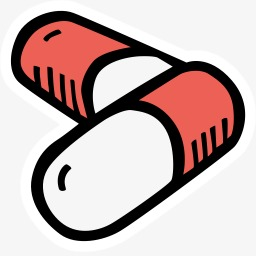
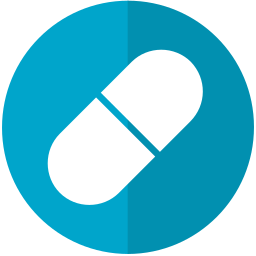
Modification de l'icone.

diff --git a/README.md b/README.md
@@ -1,5 +1,8 @@
 # Médocs [![Launchpad.net !](http://media.launchpad.net/lp-badge-kit/launchpad-badge-w120px.png)](https://launchpad.net/medocs)
 [![Licence](https://img.shields.io/github/license/drx-tn/medocs.svg)](LICENSE) [![Etat du build sur Travis](https://travis-ci.org/drx-tn/medocs.svg?branch=master)](https://travis-ci.org/drx-tn/medocs) [![Etat du build sur Appveyor](https://ci.appveyor.com/api/projects/status/usg9qx1bejcilxce/branch/master?svg=true)](https://ci.appveyor.com/project/drxtun61291/medocs/branch/master) [![Dernière version](https://img.shields.io/github/release/drx-tn/medocs.svg)](https://github.com/drx-tn/medocs/releases/latest) [![Nombre de téléchargements](https://img.shields.io/github/downloads/drx-tn/medocs/total.svg)](https://github.com/drx-tn/medocs/releases)
+
+<p align="center"><img src="medocs.svg" width="300"/></p>
+
 ## A propos
 Cette application permet au grand public et aux professionnels de santé d'accéder à des données sur les médicaments commercialisés ou ayant l'autorisation de mise sur le marché tunisien. C'est une application gratuite et son code source est ouvert (voir [licence GPL-3](LICENSE)).
 > En savoir plus sur le projet: https://drx-tn.github.io
